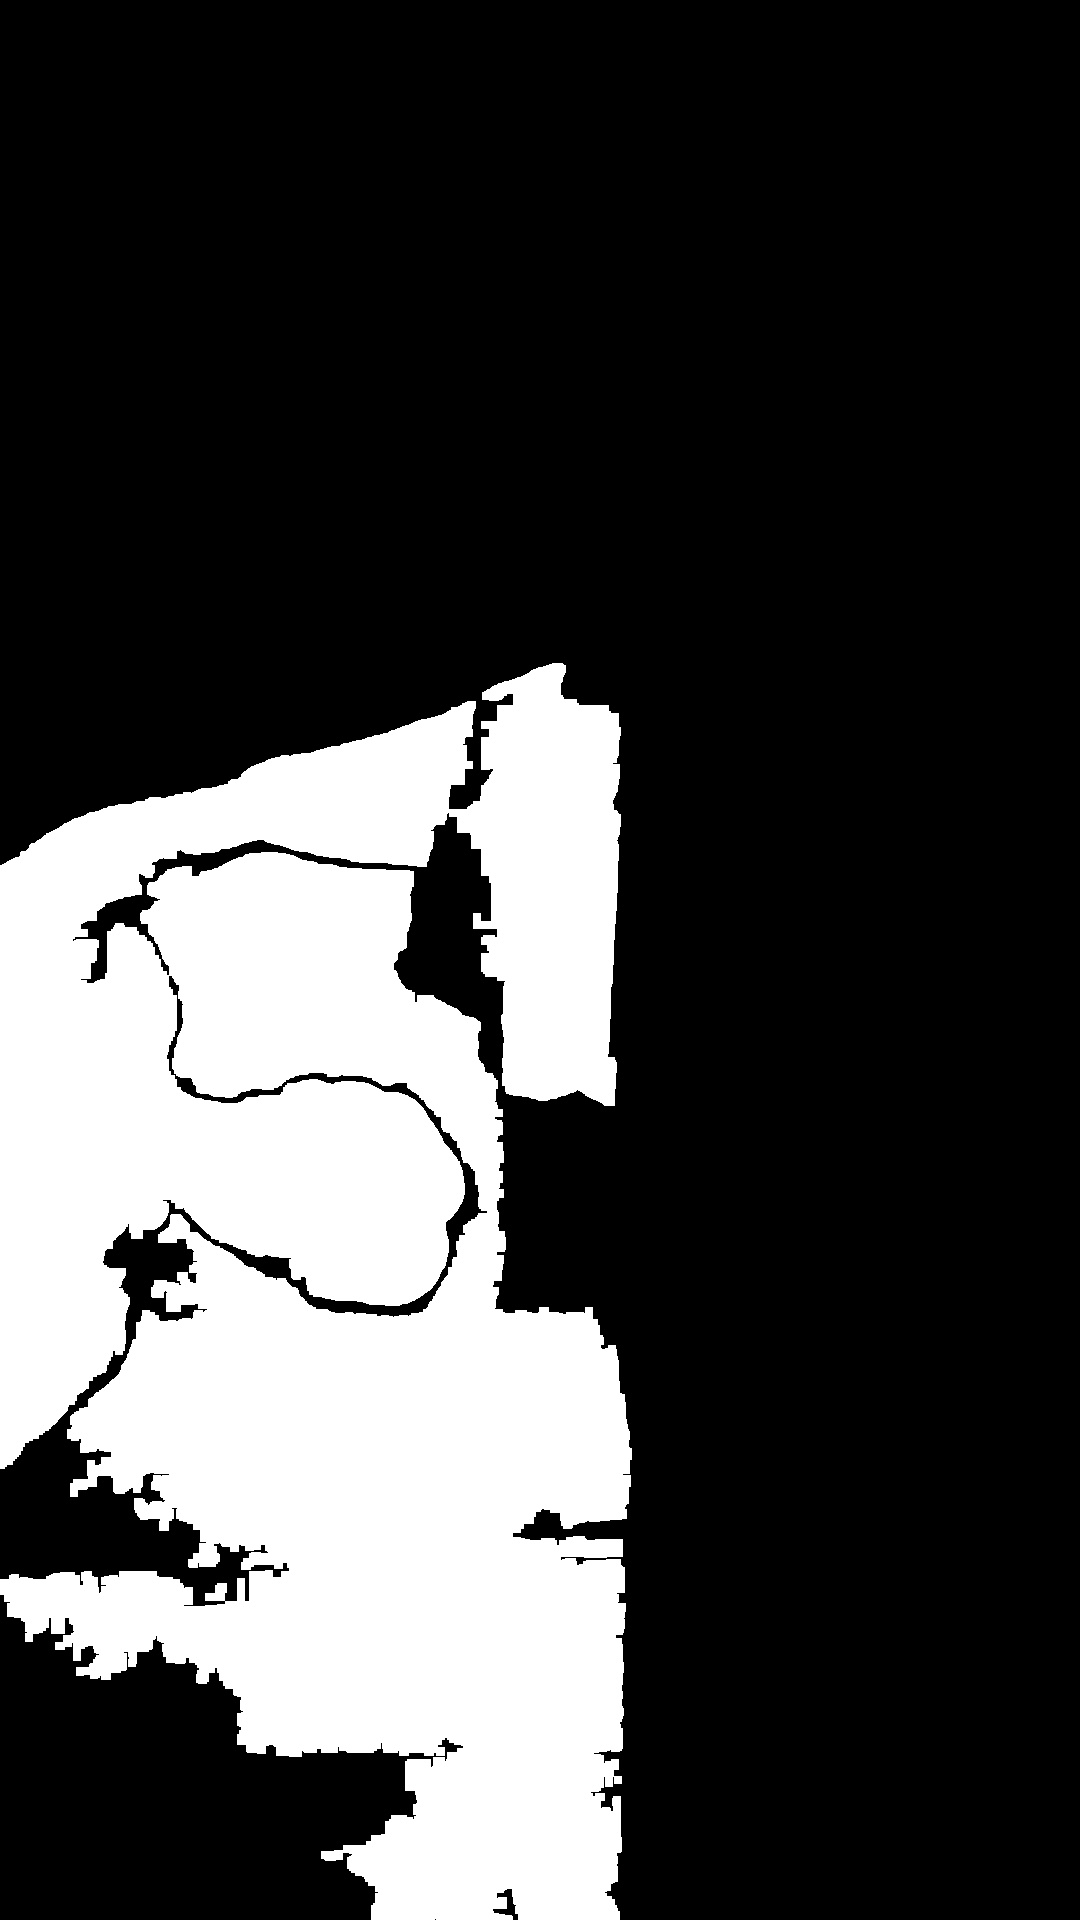
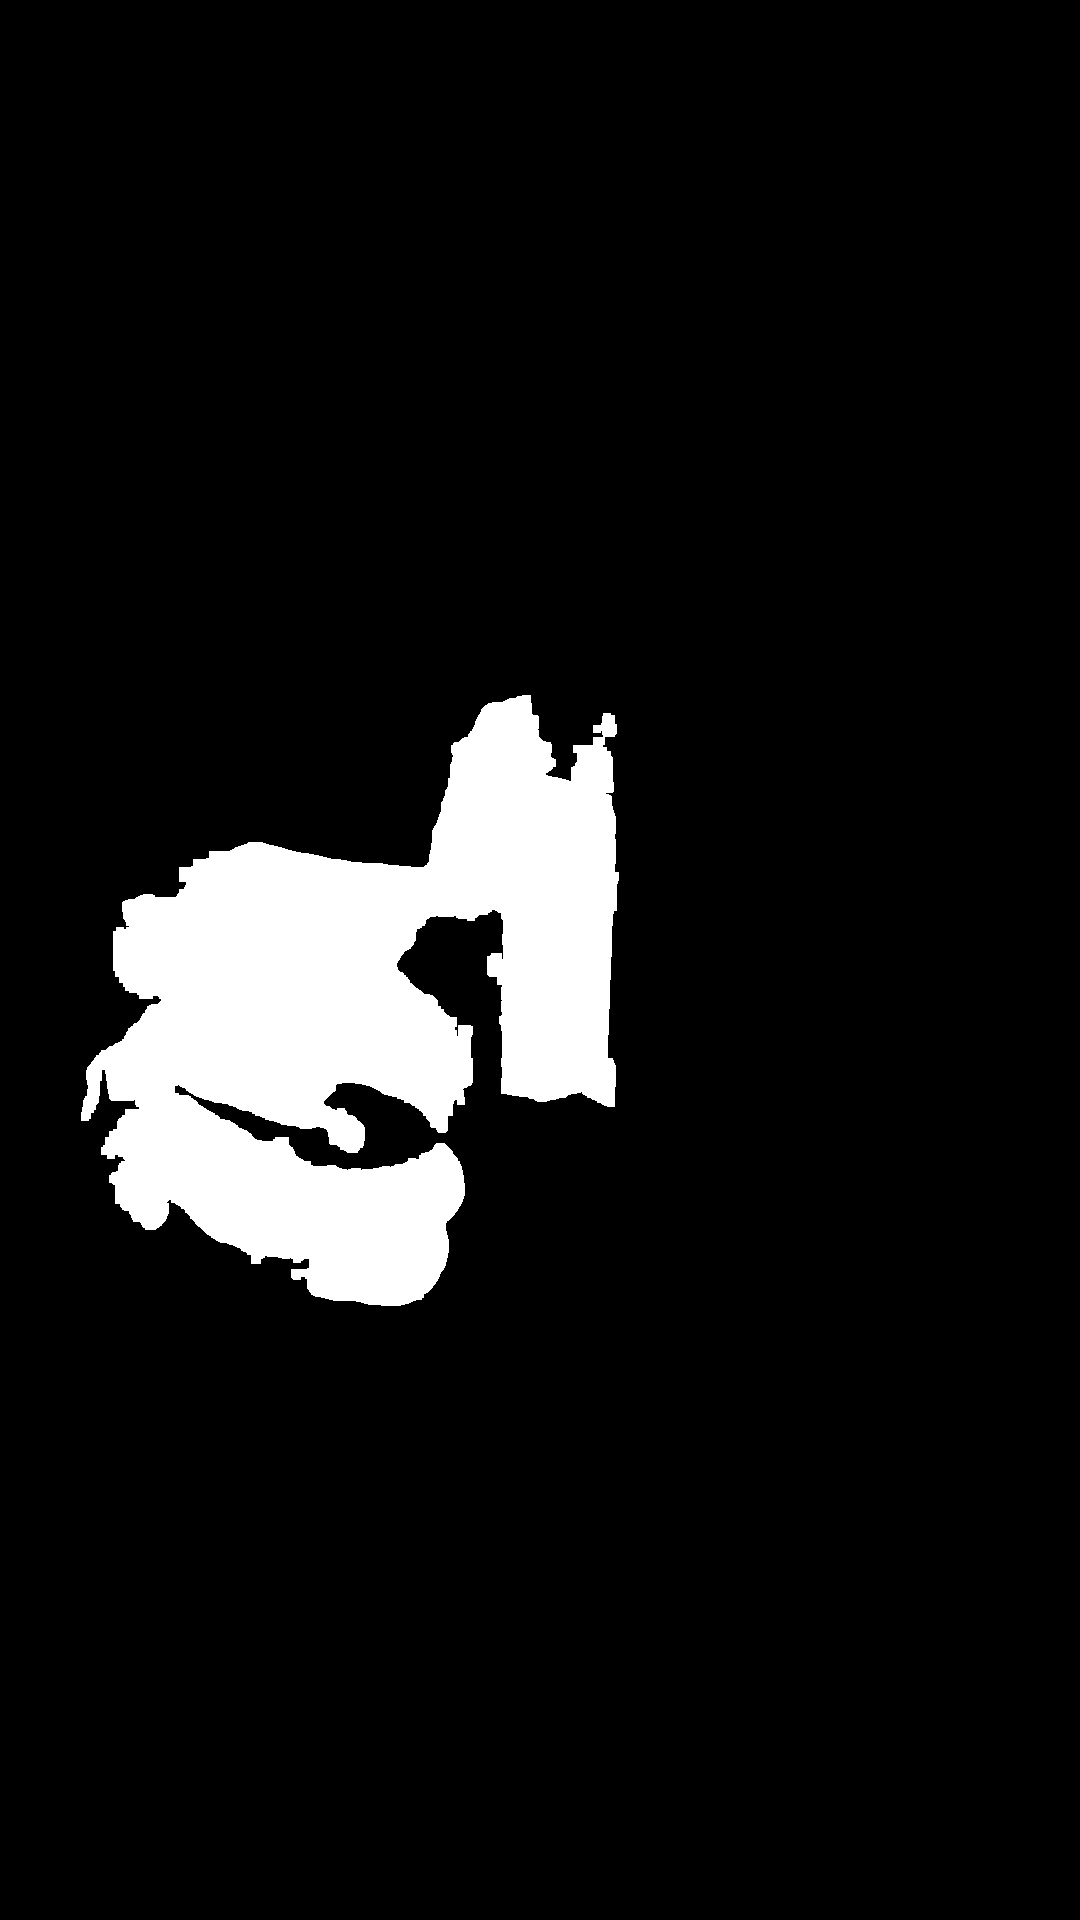
increase contours accuracy

Changed region(s): [[0.0, 0.3438, 0.5806, 1.0]]

diff --git a/run_locally.py b/run_locally.py
@@ -20,7 +20,7 @@ def detect_dump(curr, last, f, cnt_img):
     sub = cv.createBackgroundSubtractorMOG2()
     width = len(curr[0])
     height = len(curr)
-    fgMask = sub.apply(last)
+    fgMask = sub.apply(last, learningRate=1)
     fgMask = sub.apply(curr, learningRate=0)
     kernel = np.ones((8,8), np.uint8)
     #dilation = cv.dilate(fgMask, kernel, iterations=1)
@@ -45,10 +45,10 @@ def detect_dump(curr, last, f, cnt_img):
         area = 0
         for r in croped:
             for c in r:
-                if c > 0:
+                if c == 255:
                     area += 1
 
-        if area > 0.3*crop_size:
+        if area > 0.5*crop_size:
             cv.imwrite('./test_run/mask_' + str(f) + '.jpg', mask)
             cv.imwrite('./test_run/crop_' + str(f) + '.jpg', croped)
             return True
@@ -119,6 +119,7 @@ def main(view):
                     cv.imwrite(obj_path, cnt_img)
                     # skip 2 frames to avoid redundant searches
                     pause = 4
+            last = frame
         if times%(frameFrequency*1.5) == 0:
             last_face = frame
     camera.release()

diff --git a/lambda.py b/lambda.py
@@ -9,7 +9,7 @@ import uuid
 
 def detect_dump(curr, last):
     sub = cv.createBackgroundSubtractorMOG2()
-    fgMask = sub.apply(last)
+    fgMask = sub.apply(last, learningRate=1)
     fgMask = sub.apply(curr, learningRate=0)
     kernel = np.ones((8,8), np.uint8)
     #dilation = cv.dilate(fgMask, kernel, iterations=1)
@@ -37,7 +37,7 @@ def detect_dump(curr, last):
                 if c > 0:
                     area += 1
 
-        if area > 0.3*crop_size:
+        if area > 0.5*crop_size:
             #cv.imwrite('./test_run/mask_' + str(f) + '.jpg', mask)
             #cv.imwrite('./test_run/crop_' + str(f) + '.jpg', croped)
             return True
@@ -109,8 +109,10 @@ def main(view, bucket):
                     upload2DB('tyotdb', street_name, p_name, obj_name, date)
                     # skip 2 frames to avoid redundant searches
                     pause = 4
+            last = frame
         if times%(frameFrequency*1.5) == 0:
             last_face = frame
+        
     camera.release()
 def upload2S3(bucket_name, file_name, file_path) :
     s3 = boto3.client('s3')
